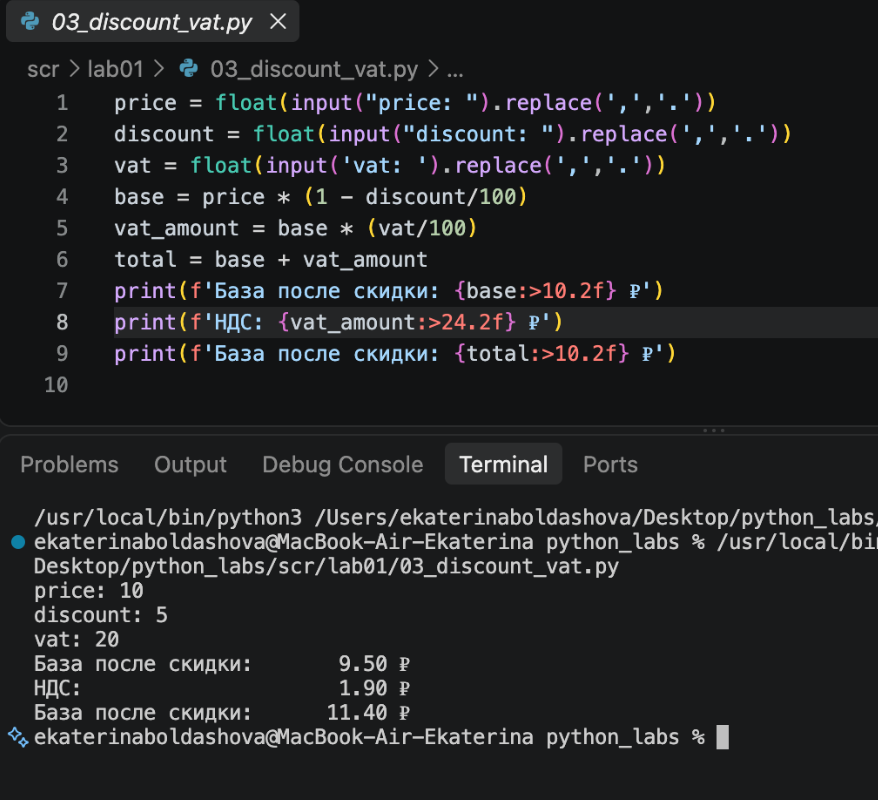
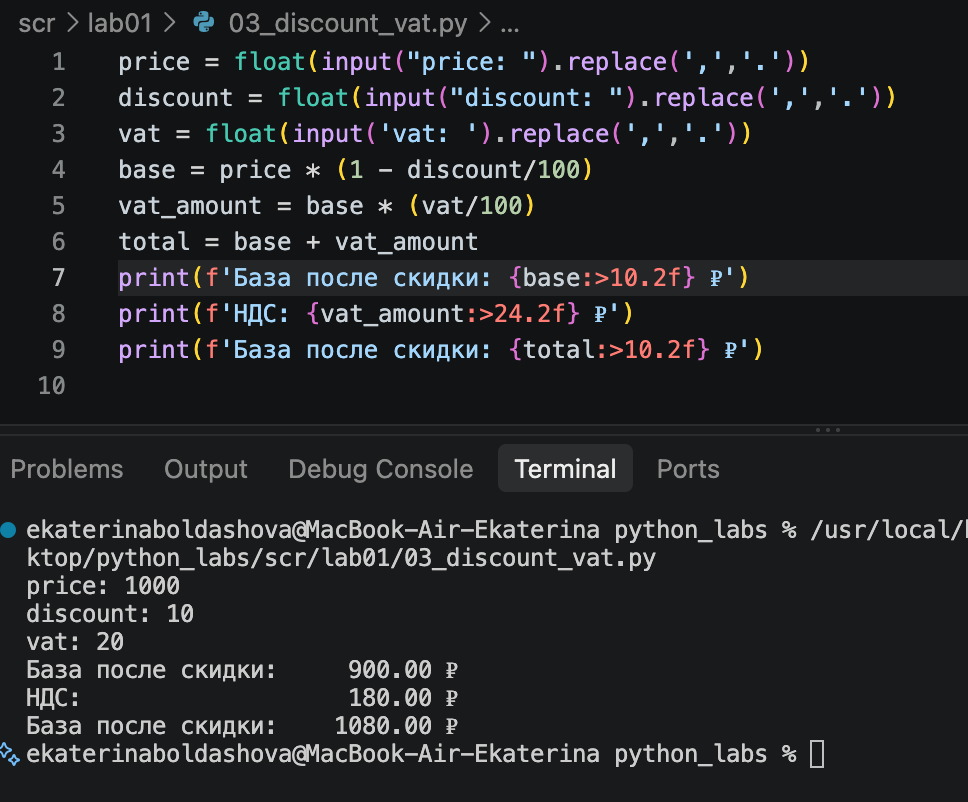
.

diff --git a/scr/lab01/README.md b/scr/lab01/README.md
@@ -11,7 +11,7 @@
 
 вычисляет значения по формулам и выводит строки с равной шириной
 
-![alt text](../../images/lab01/03_discount_vat.png)
+![alt text](../../images/lab01/04_minutes_to_hhmm.png)
 
 ### Задание 4
 
